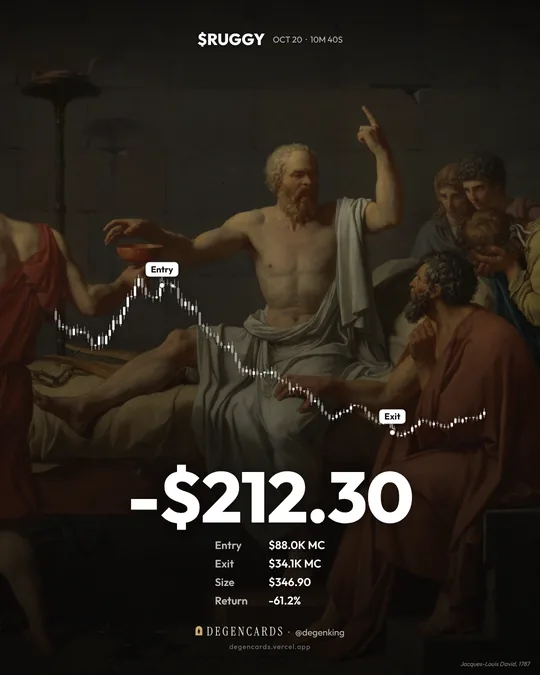
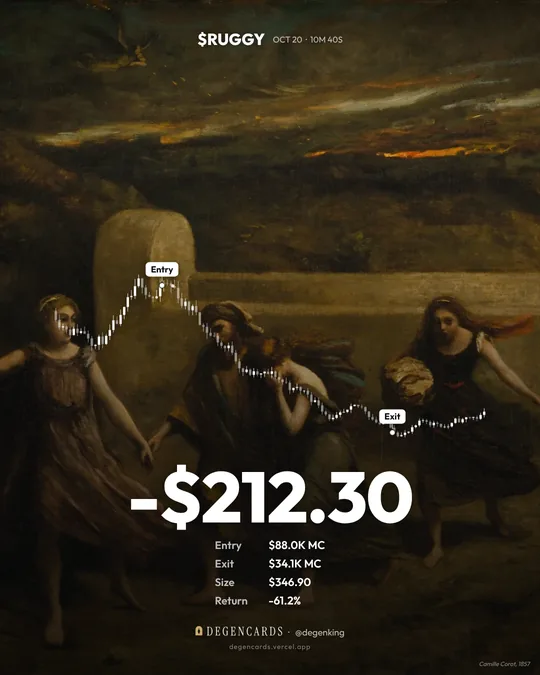
Remove nudity from artworks, fix hero title fit
Claude-Session: https://claude.ai/code/session_01CGir5V9ZYuxXqd94RskmRH

diff --git a/share.js b/share.js
@@ -392,47 +392,32 @@ function drawSimple(ctx, W, H, t, meta, p, opt){
   ctx.restore();
 }
 
-/* ---------- ART card: the trade laid over a real masterpiece ----------
+/* ---------- ART card: the trade laid over a real masterpiece (no nudity: works showing it were removed) ----------
    Paintings, sculptures and engravings in the public domain: The Metropolitan Museum of Art and The Cleveland Museum of Art,
    Open Access (CC0). Cropped (sculptures re-lit darker) and served from /art (same origin, CSP-safe).
    White monochrome candles, Entry / Exit tags, big result, quiet stats: the artwork does the talking. */
 const ART_MS = 6200;
 const ART_KINDS = [['all','All'],['paint','Paintings'],['sculpt','Sculpture'],['print','Engravings']];
 const ART = [
-  { id:'perseus',   kind:'sculpt', name:'Perseus',     title:'Perseus with the Head of Medusa',          by:'Antonio Canova',          year:'1806',    fx:.50, fy:.38, dim:.06, mood:'win',  free:true },
-  { id:'victory',   kind:'sculpt', name:'Victory',     title:'Victory with Cornucopia',                  by:'Roman',                   year:'c. 50 CE', fx:.50, fy:.30, dim:.04, mood:'win',  free:true },
-  { id:'saintmichael', kind:'paint', name:'Saint Michael', title:'Saint Michael the Archangel',          by:'Ignacio de Ries',         year:'1640s',   fx:.45, fy:.30, dim:.16, mood:'win' },
+  { id:'victory',   kind:'sculpt', name:'Victory',     title:'Victory with Cornucopia',                  by:'Roman',                   year:'c. 50 CE', fx:.50, fy:.30, dim:.04, mood:'win', free:true },
   { id:'horsemen',  kind:'print',  name:'Horsemen',    title:'The Four Horsemen of the Apocalypse',      by:'Albrecht Dürer',          year:'1498',    fx:.50, fy:.42, dim:.42, mood:'loss', free:true },
-  { id:'lions',     kind:'paint',  name:'Lions',       title:'Lions in a Mountainous Landscape',         by:'Théodore Géricault',      year:'c. 1819', fx:.36, fy:.45, dim:.12, mood:'win',  free:true },
-  { id:'socrates',  kind:'paint',  name:'Socrates',    title:'The Death of Socrates',                    by:'Jacques-Louis David',     year:'1787',    fx:.47, fy:.40, dim:.20, mood:'loss', free:true },
+  { id:'lions',     kind:'paint',  name:'Lions',       title:'Lions in a Mountainous Landscape',         by:'Théodore Géricault',      year:'c. 1819', fx:.36, fy:.45, dim:.12, mood:'win', free:true },
   { id:'tempest',   kind:'paint',  name:'Tempest',     title:'Christ Asleep during the Tempest',         by:'Eugène Delacroix',        year:'c. 1853', fx:.45, fy:.45, dim:.16, mood:'loss', free:true },
-  { id:'summit',    kind:'paint',  name:'Summit',      title:"The Rocky Mountains, Lander's Peak",       by:'Albert Bierstadt',        year:'1863',    fx:.50, fy:.30, dim:.36, mood:'win',  free:true },
-  { id:'angel',     kind:'sculpt', name:'Angel',       title:'Kneeling Angel',                           by:'Ignaz Günther',           year:'c. 1760', fx:.55, fy:.30, dim:.04, mood:'win' },
+  { id:'summit',    kind:'paint',  name:'Summit',      title:"The Rocky Mountains, Lander's Peak",       by:'Albert Bierstadt',        year:'1863',    fx:.50, fy:.30, dim:.36, mood:'win', free:true },
+  { id:'angel',     kind:'sculpt', name:'Angel',       title:'Kneeling Angel',                           by:'Ignaz Günther',           year:'c. 1760', fx:.55, fy:.30, dim:.04, mood:'win', free:true },
   { id:'medusa',    kind:'sculpt', name:'Medusa',      title:'Head of Medusa',                           by:'Antonio Canova',          year:'1807',    fx:.50, fy:.48, dim:.06, mood:'loss' },
   { id:'archangel', kind:'print',  name:'Archangel',   title:'Saint Michael Fighting the Dragon',        by:'Albrecht Dürer',          year:'1498',    fx:.50, fy:.32, dim:.42, mood:'win' },
-  { id:'psyche',    kind:'sculpt', name:'Psyche',      title:'Cupid and Psyche',                         by:'Antonio Canova',          year:'1794',    fx:.55, fy:.40, dim:.06, mood:'win' },
-  { id:'ugolino',   kind:'sculpt', name:'Ugolino',     title:'Ugolino and His Sons',                     by:'Jean-Baptiste Carpeaux',  year:'1867',    fx:.50, fy:.36, dim:.08, mood:'loss' },
-  { id:'triumph',   kind:'paint',  name:'Triumph',     title:'The Triumph of the Church',                by:'Peter Paul Rubens',       year:'c. 1628', fx:.50, fy:.45, dim:.22, mood:'win' },
   { id:'abyss',     kind:'print',  name:'Abyss',       title:'And I Saw an Angel Coming Down from Heaven', by:'Odilon Redon',          year:'1899',    fx:.45, fy:.45, dim:.08, mood:'loss' },
-  { id:'hercules',  kind:'sculpt', name:'Hercules',    title:'Statue of a Youthful Hercules',            by:'Roman',                   year:'c. 80 CE', fx:.50, fy:.30, dim:.06, mood:'win' },
   { id:'tombangel', kind:'sculpt', name:'Tomb Angel',  title:'Angel from a Tomb',                        by:'Tino di Camaino',         year:'c. 1335', fx:.55, fy:.32, dim:.06, mood:'loss' },
   { id:'northcape', kind:'paint',  name:'North Cape',  title:'The North Cape by Moonlight',              by:'Peder Balke',             year:'1848',    fx:.50, fy:.45, dim:.04, mood:'win' },
-  { id:'heavenhell',kind:'paint',  name:'Heaven & Hell', title:'Heaven and Hell',                        by:'Octave Tassaert',         year:'c. 1850', fx:.45, fy:.42, dim:.10, mood:'loss' },
   { id:'michael',   kind:'print',  name:'Michael',     title:'The Archangel Michael Piercing the Dragon', by:'Martin Schongauer',      year:'c. 1475', fx:.50, fy:.32, dim:.42, mood:'win' },
-  { id:'daphne',    kind:'sculpt', name:'Daphne',      title:'Apollo and Daphne',                        by:'Massimiliano Soldani',    year:'c. 1700', fx:.50, fy:.38, dim:.06, mood:'win' },
-  { id:'vestal',    kind:'sculpt', name:'Vestal',      title:'The Vestal',                               by:'Antonio Canova',          year:'c. 1821', fx:.50, fy:.34, dim:.08, mood:'loss' },
-  { id:'paris',     kind:'sculpt', name:'Paris',       title:'Paris',                                    by:'Antonio Canova',          year:'1822',    fx:.50, fy:.32, dim:.06, mood:'win' },
-  { id:'amazon',    kind:'sculpt', name:'Amazon',      title:'Statue of a Wounded Amazon',               by:'Roman',                   year:'1st–2nd c.', fx:.50, fy:.28, dim:.06, mood:'loss' },
-  { id:'nemean',    kind:'sculpt', name:'Nemean Lion', title:'Hercules and the Nemean Lion',             by:'Italian',                 year:'1500s',   fx:.50, fy:.40, dim:.06, mood:'win' },
+  { id:'vestal',    kind:'sculpt', name:'Vestal',      title:'The Vestal',                               by:'Antonio Canova',          year:'c. 1821', fx:.50, fy:.34, dim:.08, mood:'loss', free:true },
   { id:'prisons',   kind:'print',  name:'Prisons',     title:'Prisoners on a Projecting Platform',       by:'Giovanni Battista Piranesi', year:'1750', fx:.50, fy:.45, dim:.40, mood:'loss' },
   { id:'colosseum', kind:'print',  name:'Colosseum',   title:'The Colosseum',                            by:'Giovanni Battista Piranesi', year:'1776', fx:.50, fy:.50, dim:.40, mood:'win' },
-  { id:'angels',    kind:'paint',  name:'Angels',      title:'The Angels Appearing to Abraham',          by:'Francesco Guardi',        year:'1750s',   fx:.40, fy:.42, dim:.22, mood:'win' },
   { id:'mountainstorm', kind:'paint', name:'Mountain Storm', title:'Storm in the Mountains',             by:'Frederic Edwin Church',   year:'1847',    fx:.45, fy:.45, dim:.14, mood:'loss' },
   { id:'catskill',  kind:'paint',  name:'Catskill',    title:'The Clove, a Storm Scene',                 by:'Jasper F. Cropsey',       year:'1851',    fx:.60, fy:.45, dim:.10, mood:'loss' },
   { id:'afterstorm',kind:'paint',  name:'After the Storm', title:'Early Morning After a Storm at Sea',    by:'Winslow Homer',           year:'1903',    fx:.50, fy:.50, dim:.24, mood:'loss' },
   { id:'crossing',  kind:'paint',  name:'Crossing',    title:'Washington Crossing the Delaware',         by:'Emanuel Leutze',          year:'1851',    fx:.40, fy:.40, dim:.24, mood:'win' },
-  { id:'vercellae', kind:'paint',  name:'Vercellae',   title:'The Battle of Vercellae',                  by:'Giovanni Battista Tiepolo', year:'c. 1727', fx:.45, fy:.45, dim:.22, mood:'win' },
-  { id:'riderless', kind:'paint',  name:'Riderless',   title:'The Start of the Race of the Riderless Horses', by:'Horace Vernet',      year:'1820',    fx:.44, fy:.45, dim:.24, mood:'win' },
   { id:'hunt',      kind:'paint',  name:'The Hunt',    title:'Wolf and Fox Hunt',                        by:'Peter Paul Rubens',       year:'c. 1616', fx:.52, fy:.45, dim:.24, mood:'win' },
   { id:'tiger',     kind:'paint',  name:'Tiger',       title:'Tiger and Cubs',                           by:'Jean-Léon Gérôme',        year:'c. 1884', fx:.60, fy:.55, dim:.08, mood:'win' },
   { id:'horsefair', kind:'paint',  name:'Horse Fair',  title:'The Horse Fair',                           by:'Rosa Bonheur',            year:'1855',    fx:.50, fy:.50, dim:.24, mood:'win' },

diff --git a/index.html b/index.html
@@ -71,7 +71,7 @@
         </form>
         <p class="lp-wallet-note lp-in" style="--d:.9s" data-lp-note>Read-only. An address can't move funds.</p>
       </div>
-      <figure class="lp-stage" aria-label="Example card: $ZAPP, +$1,729.58, on Canova's Perseus">
+      <figure class="lp-stage" aria-label="Example card: $ZAPP, a winning trade, on a winged Roman Victory">
         <canvas id="lpHeroCard" width="1080" height="1350"></canvas>
         <img class="lp-stage-still" src="/lp/post.webp" width="540" height="675" alt="">
         <noscript><style>#lpHeroCard{display:none}#landing .lp-stage .lp-stage-still{display:block!important}</style></noscript>
@@ -88,9 +88,9 @@
     <section class="lp-sec lp-formats-sec">
       <h2 class="lp-rv">One trade. Every format.</h2>
       <div class="lp-gallery">
-        <figure class="lp-rv" style="--d:.0s"><img src="/lp/story.webp" width="540" height="960" loading="lazy" alt="Story card 9:16: $ZAPP +$1,729.58 on Saint Michael the Archangel, with the candle chart and entry / exit"><figcaption>Story · 9:16</figcaption></figure>
-        <figure class="lp-rv" style="--d:.12s"><img src="/lp/post.webp" width="540" height="675" loading="lazy" alt="Post card 4:5 on Canova's Perseus"><figcaption>Post · 4:5</figcaption></figure>
-        <figure class="lp-rv" style="--d:.24s"><img src="/lp/loss.webp" width="540" height="675" loading="lazy" alt="Losing trade card on The Death of Socrates"><figcaption>Losses too</figcaption></figure>
+        <figure class="lp-rv" style="--d:.0s"><img src="/lp/story.webp" width="540" height="960" loading="lazy" alt="Story card 9:16: $ZAPP +$1,729.58 on Washington Crossing the Delaware, with the candle chart and entry / exit"><figcaption>Story · 9:16</figcaption></figure>
+        <figure class="lp-rv" style="--d:.12s"><img src="/lp/post.webp" width="540" height="675" loading="lazy" alt="Post card 4:5 on a winged Roman Victory"><figcaption>Post · 4:5</figcaption></figure>
+        <figure class="lp-rv" style="--d:.24s"><img src="/lp/loss.webp" width="540" height="675" loading="lazy" alt="Losing trade card on The Burning of Sodom by Corot"><figcaption>Losses too</figcaption></figure>
       </div>
       <p class="lp-works lp-rv">Works with Pump.fun, Axiom, Photon, BullX, GMGN, Fomo, Phantom, Solflare and Backpack.</p>
     </section>

diff --git a/app.js b/app.js
@@ -2492,7 +2492,7 @@ document.addEventListener('DOMContentLoaded', () => {
   const chart = { v:2, i:iv, c:cs, w:[t0, t0 + 84 * iv], m:[[t0 + 18 * iv + 20000, 'b', cs[18][4]], [t0 + 61 * iv + 30000, 's', cs[61][4]]] };
   const roi = (cs[61][4] / cs[18][4] - 1) * 100, inv = 537.64;
   window.dcArtHero(document.getElementById('lpHeroCard'), { ticker:'ZAPP', pnl: inv * roi / 100, roi, entryMc: cs[18][4], exitMc: cs[61][4], holdTime: 43 * 60 + 6,
-    timestamp: t0 + 61 * iv, tradeId: 1, id:'demo', source:'wallet', image:null, chart }, { pick:'perseus', tone:'natural', big:'pnl', ink:'white', chart:true, stats:true, coin:false, credit:true });
+    timestamp: t0 + 61 * iv, tradeId: 1, id:'demo', source:'wallet', image:null, chart }, { pick:'victory', tone:'natural', big:'pnl', ink:'white', chart:true, stats:true, coin:false, credit:true });
 });
 
 async function reload(){

diff --git a/styles.css b/styles.css
@@ -1679,3 +1679,9 @@ nav button.active::after{background:var(--accent);}
 .legal a{color:var(--accent);}
 .card .top{gap:10px;}
 @media(max-width:640px){ .card .src{display:none;} }
+/* hero title: never clipped, whatever the width */
+#landing .lp-hero-txt{max-width:600px; min-width:0;}
+#landing h1{font-size:clamp(48px,5.3vw,84px);}
+#landing h1 em{white-space:normal;}
+.lp-line > span{max-width:100%;}
+@media(max-width:520px){ #landing h1{font-size:clamp(44px,12.4vw,58px);} }

diff --git a/HANDOFF.md b/HANDOFF.md
@@ -335,3 +335,9 @@ Voir README.md (CSP stricte dans vercel.json, PKCE, échappement, validation, RL
 - **Composants** : boutons principaux ivoire en pilule, secondaires en contour fin, pastilles PRO dorées, chips en pilule, cartes de la collection sur fond encre avec filet de rareté (plus de halo néon), modales et panneaux à plat.
 - Thème Replay par défaut renommé « Classic » (clé `neon` gardée) aux couleurs jade / vermillon.
 - Images de la landing (`lp/story|post|loss.webp`) régénérées avec le nouveau pied de carte.
+
+## Nudité retirée + titre hero (2026-10-23)
+- 15 œuvres retirées (catalogue share.js, fichiers art/ + art/t/, crédits README) : perseus, paris, hercules, psyche, daphne, amazon, nemean, ugolino, saintmichael, triumph, heavenhell, angels, socrates, vercellae, riderless. Reste 28 œuvres, aucune nudité.
+- Set gratuit : victory, horsemen, lions, tempest, summit, angel, vestal. Une ancienne sélection (pick) supprimée retombe sur l'auto (artPick).
+- Hero landing = Victory (app.js). Images lp/ re-rendues : story = crossing, post = victory, loss = sodom. og.png re-rendu (Victory).
+- Titre hero : jamais coupé (`#landing h1` clamp 48–84px, mobile 44–58px, `.lp-line > span{max-width:100%}`), vérifié 390/1024/1278/1440/1920.
